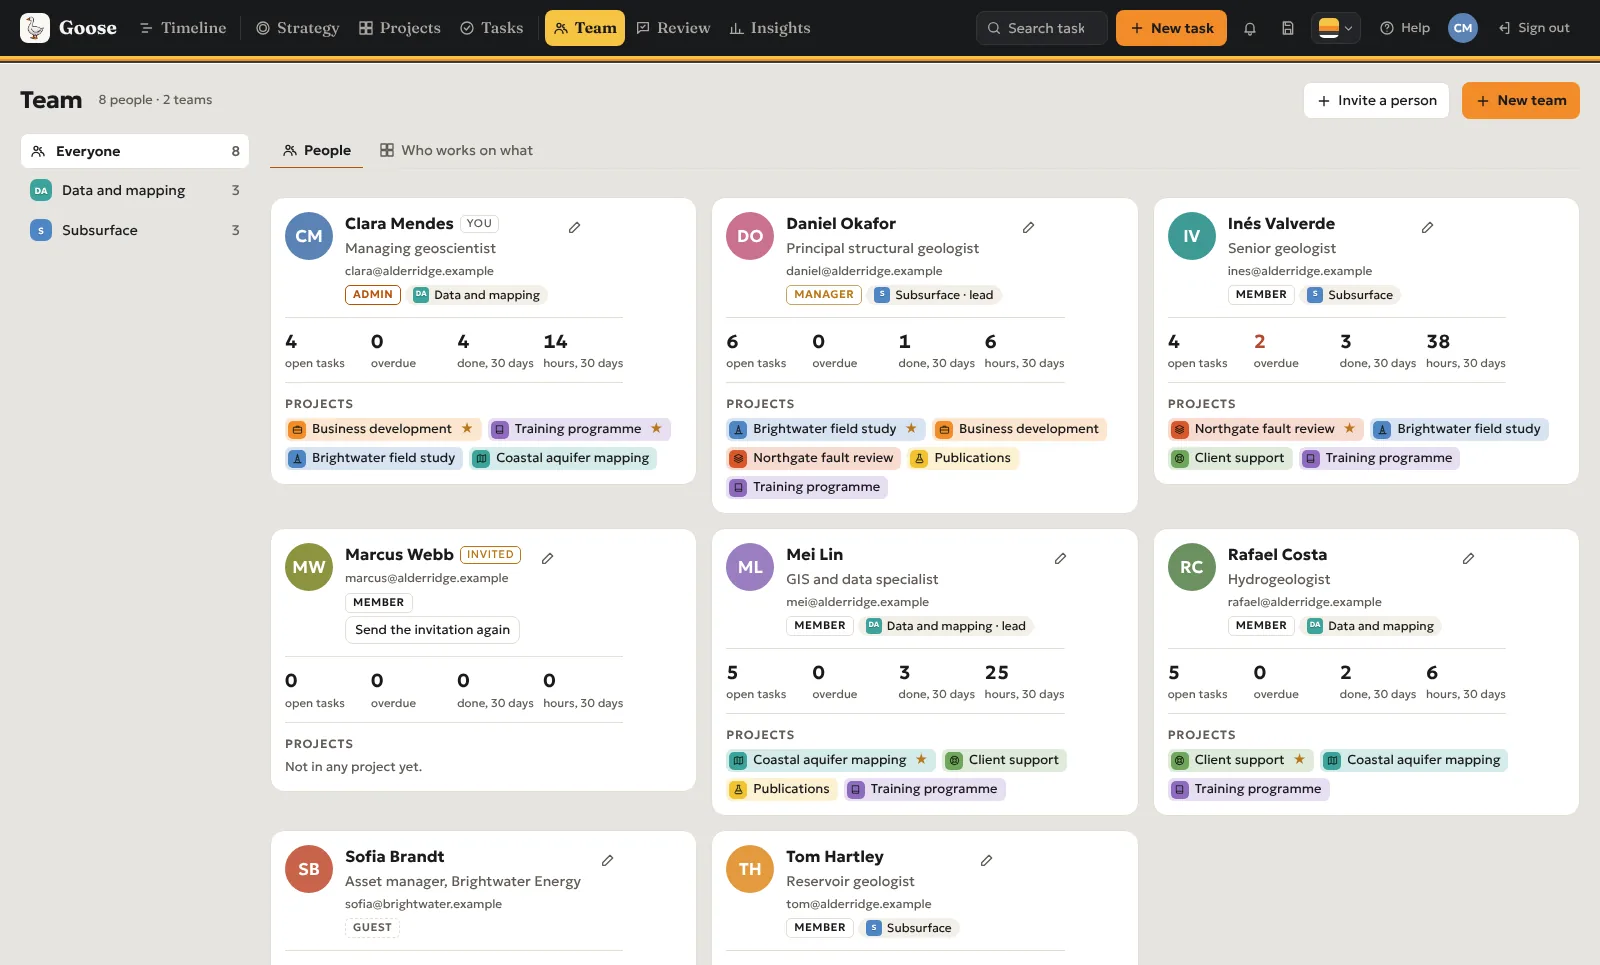
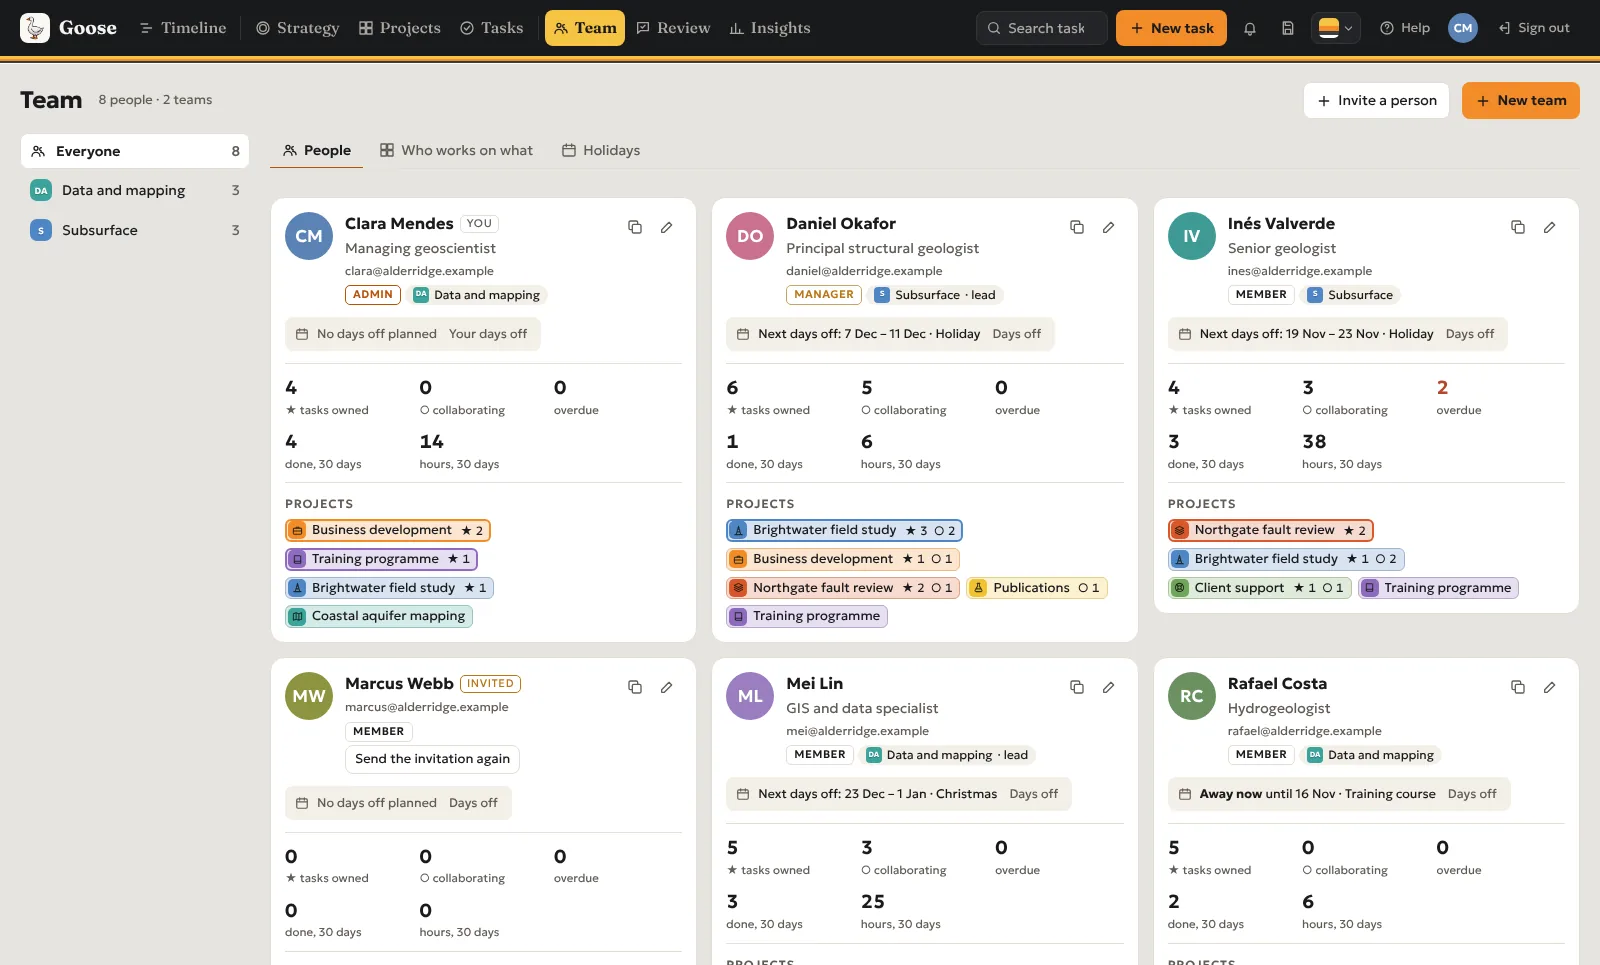
Website: new screenshots (Team cards with owned/collaborating counts, Who works on what with totals, new Holidays view; rearranged Review); Team and Review texts updated; In the works refreshed
Claude-Session: https://claude.ai/code/session_01Dr5L1ibi2WVGrhF4oNkt7F

Changed region(s): [[0.1562, 0.3109, 1.0, 1.0], [0.4375, 0.9948, 0.5, 1.0], [0.5938, 0.2798, 0.625, 0.3109]]

diff --git a/website/index.html b/website/index.html
@@ -456,11 +456,11 @@ dialog.zoom button{font:inherit;font-size:14px;border:0;border-radius:9px;paddin
     <article class="feature" id="f-review">
       <div class="feature-text">
         <span class="eyebrow">Review</span><h3>The weekly look back, done in a minute</h3>
-        <p class="what">Pick a period and Goose lays out what slipped, what got done and what is coming up.</p>
+        <p class="what">Pick a period and Goose lays out what got done, what slipped and what is coming up.</p>
         <ul class="ticks">
+          <li>A written summary, ready to edit and copy into an email or chat, or as a plain list</li>
+          <li>Goals and projects side by side: progress, how much they gained in the period and the time spent</li>
           <li>Slipped tasks with one-click fixes: done, next Monday, one week later</li>
-          <li>Where the time went, by goal and by project</li>
-          <li>A ready-made summary to copy into an email or chat</li>
         </ul>
       </div>
       <figure class="shot"><button class="frame" type="button" data-zoom aria-label="Enlarge"><span class="chrome" aria-hidden="true"><i></i><i></i><i></i></span>
@@ -470,15 +470,17 @@ dialog.zoom button{font:inherit;font-size:14px;border:0;border-radius:9px;paddin
     <article class="feature" id="f-team">
       <div class="feature-text">
         <span class="eyebrow">Team</span><h3>Who is carrying what</h3>
-        <p class="what">A card for each person with their open, overdue and finished work, and the projects they are on.</p>
+        <p class="what">A card for each person with the tasks they own and help on, what is overdue, what they finished and when they are next away.</p>
         <ul class="ticks">
-          <li>Teams with a lead and a colour; one person can be in several</li>
-          <li>"Who works on what": a grid of people against projects</li>
-          <li>Invite people as Admin, Manager, Member or Guest</li>
+          <li>"Who works on what": people against projects, with totals for each</li>
+          <li>Holidays: country calendars and everyone's days off in one place</li>
+          <li>Copy the grid or a person's card as a picture, for a slide or a message</li>
+          <li>Teams with a lead and a colour; invite people as Admin, Manager, Member or Guest</li>
         </ul>
         <div class="switch" role="group" aria-label="Team view">
           <button type="button" aria-pressed="true" data-shot="team">People</button>
           <button type="button" aria-pressed="false" data-shot="team-matrix">Who works on what</button>
+          <button type="button" aria-pressed="false" data-shot="team-holidays">Holidays</button>
         </div>
       </div>
       <figure class="shot"><button class="frame" type="button" data-zoom aria-label="Enlarge"><span class="chrome" aria-hidden="true"><i></i><i></i><i></i></span>
@@ -522,7 +524,7 @@ dialog.zoom button{font:inherit;font-size:14px;border:0;border-radius:9px;paddin
         <li>A person's tasks and review, one click from their Team card</li>
         <li>Your colour palette and view choices following you to every device</li>
         <li>Live updates when a colleague changes something</li>
-        <li>Email notifications, for example when a task is assigned to you</li>
+        <li>Files attached to tasks</li>
       </ul>
     </div>
   </div>
